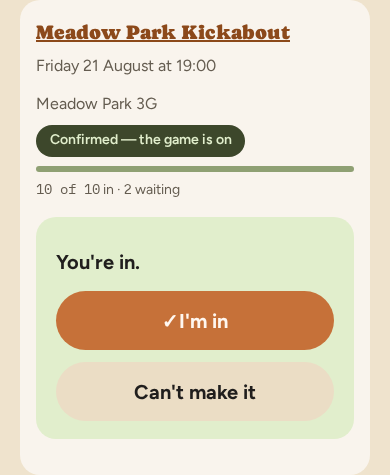
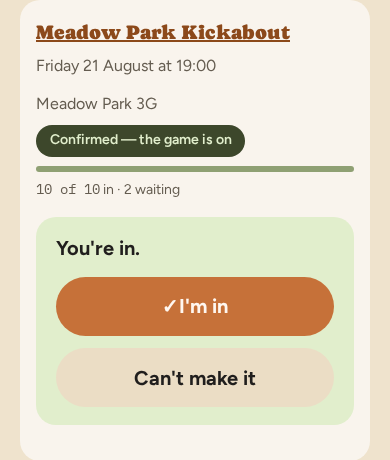
fix: the answer block's headline margin wins on purpose, with its guard (M20 B7)
Claude-Session: https://claude.ai/code/session_01Erq3NJUsRVuCbi3ifphCse

diff --git a/test/routes/dashboard.test.ts b/test/routes/dashboard.test.ts
@@ -15,7 +15,7 @@ import { getDb } from "../../src/db/client.js";
 import { fixtures, memberships, passkey, players, pushSubscriptions, responses } from "../../src/db/schema.js";
 import { openFixture } from "../../src/domain/open-fixture.js";
 import { SERVICE_WORKER_JS } from "../../src/views/scripts.js";
-import { DASHBOARD_STYLES_CSS, SQUAD_STYLES_CSS } from "../../src/views/styles.js";
+import { DASHBOARD_STYLES_CSS, FIXTURE_STYLES_CSS, SQUAD_STYLES_CSS } from "../../src/views/styles.js";
 import { insertGame, insertMembership, resetDatabase } from "../support/factories.js";
 import { ALLOWED, ORIGIN, bindings, signIn } from "../support/sign-in.js";
 
@@ -700,6 +700,68 @@ describe("the card's answer block (M20 B7)", () => {
 
     expect(body).toContain('<section class="answer answer-waiting">');
   });
+});
+
+/**
+ * The two-blocks-one-element collision `style-cascade.test.ts` cannot see: it
+ * compares blocks that declare the *same* selector, and these two reach the
+ * same headline through different ones. `.answer .viewer-headline` (0,2,0) in
+ * FIXTURE_STYLES_CSS and `.fixture-card .viewer-headline` (0,2,0) in
+ * DASHBOARD_STYLES_CSS tie on specificity, and the dashboard's page lists the
+ * dashboard block second — so the card's 0.9rem beat the block's reset and the
+ * headline sat on a stacked margin inside the block's own padding, with every
+ * test passing. `.fixture-card .answer .viewer-headline` is the deliberate
+ * resolution: three classes, so it wins whichever order the blocks are listed.
+ */
+describe("the answer block's headline margin on a dashboard card (M20 B7)", () => {
+  /** The `margin-top` the last-declared matching rule sets, scanning in cascade order. */
+  function marginTopFor(css: string, selector: string): string | null {
+    let value: string | null = null;
+    // Comments carry no braces, so they otherwise ride along in the selector
+    // text and every lookup silently misses.
+    const rules = css.replace(/\/\*[\s\S]*?\*\//g, "");
+    for (const m of rules.matchAll(/([^{}]+)\{([^}]*)\}/g)) {
+      if (m[1]!.trim() !== selector) continue;
+      const decl = m[2]!.match(/margin-top:\s*([^;]+)/);
+      if (decl) value = decl[1]!.trim();
+    }
+    return value;
+  }
+
+  it("declares all three rules, so this guard cannot pass vacuously", () => {
+    // The 0.9rem rule is not dead weight to be tidied away: the account page's
+    // history row wears .fixture-card with a bare headline and no answer block
+    // around it, and that rule is the only thing spacing it.
+    expect(marginTopFor(FIXTURE_STYLES_CSS, ".answer .viewer-headline")).toBe("0");
+    expect(marginTopFor(DASHBOARD_STYLES_CSS, ".fixture-card .viewer-headline")).toBe("0.9rem");
+    expect(marginTopFor(DASHBOARD_STYLES_CSS, ".fixture-card .answer .viewer-headline")).toBe("0");
+  });
+
+  it("gives the winner more classes than either tied rule, not a later position", () => {
+    // Both losers are two classes; the winner is three. Counted rather than
+    // asserted as a string so narrowing one of the losers cannot go unnoticed.
+    const classes = (selector: string) => selector.split(".").length - 1;
+    expect(classes(".fixture-card .answer .viewer-headline")).toBeGreaterThan(
+      classes(".fixture-card .viewer-headline"),
+    );
+    expect(classes(".fixture-card .answer .viewer-headline")).toBeGreaterThan(classes(".answer .viewer-headline"));
+  });
+
+  it("ships both blocks on the dashboard, with the card's headline inside the block", async () => {
+    const { cookie } = await signIn();
+    const playerId = await viewerId();
+    await seedFixtureFor(playerId, { maxPlayers: 14 });
+
+    const body = await (await get(cookie)).text();
+
+    expect(body).toContain(FIXTURE_STYLES_CSS);
+    expect(body).toContain(DASHBOARD_STYLES_CSS);
+    // The markup the three-class selector needs: a headline nested in an
+    // answer block nested in a fixture card. Without this the winning rule
+    // matches nothing and the reset is decorative.
+    expect(body).toMatch(/<li class="fixture-card">[\s\S]*?<section class="answer[\s\S]*?class="viewer-headline/);
+  });
+
 });
 
 describe("the Your squads section (M20 B3)", () => {

diff --git a/src/views/styles.ts b/src/views/styles.ts
@@ -223,7 +223,17 @@ export const DASHBOARD_STYLES_CSS = `
     border: none; border-radius: 1.25rem; background: var(--card-raised);
   }
   .fixture-card h2 { margin: 0 0 0.25rem; font-size: var(--t-lead); }
+  /* Still 0.9rem for the account page's history row, which wears this same
+     card class with a bare headline and no answer block around it. */
   .fixture-card .viewer-headline { margin-top: 0.9rem; font-size: var(--t-lead); }
+  /* The dashboard's own card puts that headline inside the answer block, whose
+     padding is the gap — so the block's reset must win here. It cannot win on
+     order: this file's rule above and the .answer .viewer-headline rule in
+     FIXTURE_STYLES_CSS are both (0,2,0), and this block loads second, so the
+     0.9rem would silently take a stacked margin inside the block's padding.
+     Three classes is the deliberate resolution, and it holds whichever order
+     the two blocks are listed in. */
+  .fixture-card .answer .viewer-headline { margin-top: 0; }
   .fixture-card .responses { margin-bottom: 0; }
 
   /* The owned-games section: one row per game the viewer organises, each a
